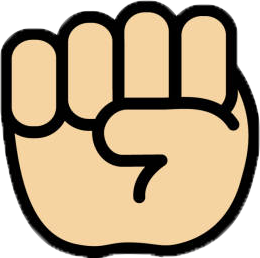
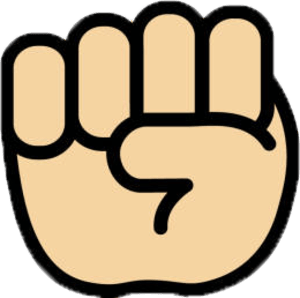
add brunnen gesture support in GameController and update game-view; refactor layout and styles for improved UI

diff --git a/src/main/resources/htl/steyr/scheresteinpapier/style.css b/src/main/resources/htl/steyr/scheresteinpapier/style.css
@@ -1,4 +1,4 @@
-.schere-button, .stein-button, .papier-button {
+.schere-button, .stein-button, .papier-button, brunnen-button {
     -fx-background-color: transparent;
     -fx-padding: 0;
     -fx-pref-width: 150px;
@@ -9,7 +9,7 @@
     -fx-background-position: center;
 }
 
-.schere-button:hover, .stein-button:hover, .papier-button:hover {
+.schere-button:hover, .stein-button:hover, .papier-button:hover, brunnen-button:hover {
     -fx-scale-x: 1.1;
     -fx-scale-y: 1.1;
 }
@@ -25,6 +25,11 @@
 
 .papier-button {
     -fx-background-image: url('img/Papier.png');
+}
+
+.brunnen-button {
+    -fx-background-image: url('img/Brunnen.png');
+
 }
 
 .AnchorPane {
@@ -63,3 +68,7 @@
     -fx-background-radius: 12px;
     -fx-effect: dropshadow(gaussian, rgba(0,0,0,0.25), 10, 0.2, 0, 2);
 }
+
+
+
+

diff --git a/src/main/java/htl/steyr/scheresteinpapier/GameController.java b/src/main/java/htl/steyr/scheresteinpapier/GameController.java
@@ -1,5 +1,6 @@
 package htl.steyr.scheresteinpapier;
 
+import javafx.event.ActionEvent;
 import javafx.scene.control.ScrollBar;
 import javafx.scene.media.Media;
 import javafx.scene.media.MediaPlayer;
@@ -22,6 +23,7 @@ public class GameController {
     public Button schereButton;
     public Button steinButton;
     public Button papierButton;
+    public Button brunnenButton;
     public ImageView playerShowGesture;
     public ImageView botShowGesture;
     public Button resetButton;
@@ -78,6 +80,11 @@ public class GameController {
         gestureSelected();
     }
 
+    public void brunnenButtonPressed(ActionEvent actionEvent) {
+        player.setSelectedGesture(3);
+        gestureSelected();
+    }
+
 
     public void resetButtonPressed() {
         playerShowGesture.setVisible(false);
@@ -98,12 +105,14 @@ public class GameController {
         schereButton.setVisible(false);
         steinButton.setVisible(false);
         papierButton.setVisible(false);
+        brunnenButton.setVisible(false);
     }
 
     public void showButtons() {
         schereButton.setVisible(true);
         steinButton.setVisible(true);
         papierButton.setVisible(true);
+        brunnenButton.setVisible(true);
     }
 
 
@@ -129,6 +138,9 @@ public class GameController {
                 break;
             case 2:
                 view.setImage(loadImage("Papier.png"));
+                break;
+            case 3:
+                view.setImage(loadImage("Brunnen.png"));
                 break;
             default:
                 view.setImage(null);
@@ -229,7 +241,6 @@ public class GameController {
 
         return null; // Sollte nie erreicht werden
     }
-
 
 
 }
